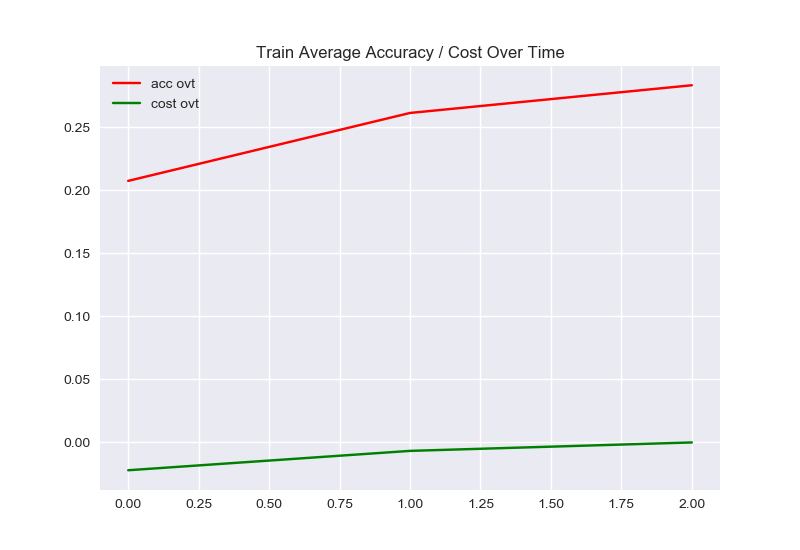
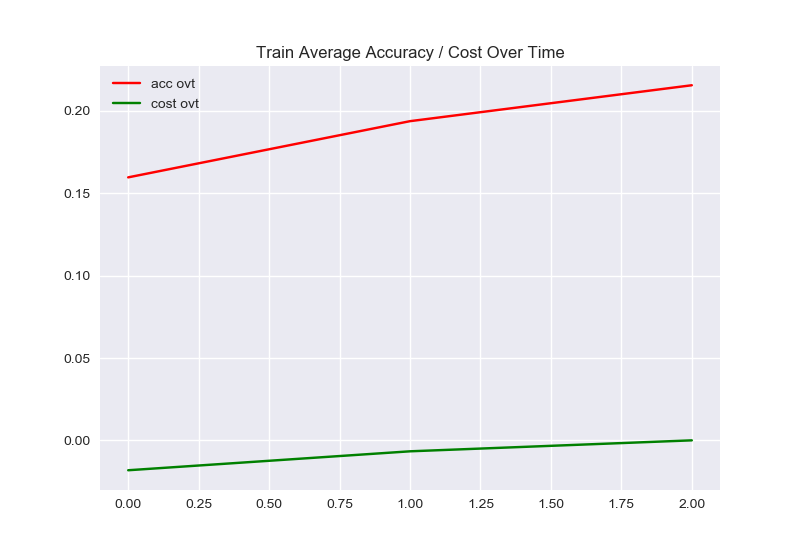
added

diff --git a/Understanding_Concepts/COUNTERFACTUALS/a.py b/Understanding_Concepts/COUNTERFACTUALS/a.py
@@ -64,13 +64,13 @@ class CNN():
 
     def getw(self): return self.w
 
-    def feedforward(self,input,stride=1,padding='SAME'):
+    def feedforward(self,input,stride=1,padding='VALID'):
         self.input  = input
         self.layer  = tf.nn.conv2d(input,self.w,strides=[1,stride,stride,1],padding=padding) 
         self.layerA = tf_elu(self.layer)
         return self.layerA 
 
-    def backprop(self,gradient,learning_rate_change,stride=1,padding='SAME'):
+    def backprop(self,gradient,learning_rate_change,stride=1,padding='VALID'):
         grad_part_1 = gradient 
         grad_part_2 = d_tf_elu(self.layer) 
         grad_part_3 = self.input
@@ -161,6 +161,7 @@ class batch_norm():
 
         def f1(): return v_t
         def f2(): return self.v_hat_prev
+
         v_max = tf.cond(tf.greater(tf.reduce_sum(v_t), tf.reduce_sum(self.v_hat_prev) ) , true_fn=f1, false_fn=f2)
         adam_middel = tf.multiply(learning_rate_change/(tf.sqrt(v_max) + adam_e),self.m)
         update_w.append(tf.assign(self.gamma,tf.subtract(self.gamma,adam_middel  )  ))
@@ -169,35 +170,30 @@ class batch_norm():
 
         return grad_pass,update_w   
 
-# data
-PathDicom = "../../Dataset/cifar-10-batches-py/"
-lstFilesDCM = []  # create an empty list
-for dirName, subdirList, fileList in os.walk(PathDicom):
-    for filename in fileList:
-        if not ".html" in filename.lower() and not  ".meta" in filename.lower():  # check whether the file's DICOM
-            lstFilesDCM.append(os.path.join(dirName,filename))
+# stl 10 data
+PathDicom = "../../Dataset/STL10/stl10_binary/"
 
-# Read the data traind and Test
-batch0 = unpickle(lstFilesDCM[0])
-batch1 = unpickle(lstFilesDCM[1])
-batch2 = unpickle(lstFilesDCM[2])
-batch3 = unpickle(lstFilesDCM[3])
-batch4 = unpickle(lstFilesDCM[4])
+train_file   = open(PathDicom+"train_X.bin",'rb')
+train_label_f  = open(PathDicom+"train_y.bin",'rb')
 
-# One hot encode and unpickle data
+test_file   = open(PathDicom+"test_X.bin",'rb')
+test_label_f  = open(PathDicom+"test_y.bin",'rb')
+
+# Train set have 500 images per class 5000
+# Test set have 800 images per class 8000
+# So I am going to switch 
 onehot_encoder = OneHotEncoder(sparse=True)
-train_batch = np.vstack((batch0[b'data'],batch1[b'data'],batch2[b'data'],batch3[b'data'],batch4[b'data']))
-train_label = np.expand_dims(np.hstack((batch0[b'labels'],batch1[b'labels'],batch2[b'labels'],batch3[b'labels'],batch4[b'labels'])).T,axis=1).astype(np.float32)
+train_batch = np.fromfile(test_file, dtype=np.uint8)
+train_batch = np.reshape(train_batch, (-1, 3, 96, 96))
+train_batch = np.transpose(train_batch, (0, 3, 2, 1))
+train_label = np.expand_dims(np.fromfile(test_label_f, dtype=np.uint8).astype(np.float64),axis=1)
 train_label = onehot_encoder.fit_transform(train_label).toarray().astype(np.float32)
-test_batch = unpickle(lstFilesDCM[5])[b'data']
-test_label = np.expand_dims(np.array(unpickle(lstFilesDCM[5])[b'labels']),axis=0).T.astype(np.float32)
+
+test_batch = np.fromfile(train_file, dtype=np.uint8)
+test_batch = np.reshape(test_batch, (-1, 3, 96, 96))
+test_batch = np.transpose(test_batch, (0, 3, 2, 1))
+test_label = np.expand_dims(np.fromfile(train_label_f, dtype=np.uint8).astype(np.float64),axis=1)
 test_label = onehot_encoder.fit_transform(test_label).toarray().astype(np.float32)
-# reshape data
-train_batch = np.reshape(train_batch,(len(train_batch),3,32,32))
-test_batch = np.reshape(test_batch,(len(test_batch),3,32,32))
-# rotate data
-train_batch = np.rot90(np.rot90(train_batch,1,axes=(1,3)),3,axes=(1,2))
-test_batch = np.rot90(np.rot90(test_batch,1,axes=(1,3)),3,axes=(1,2))
 
 # print out the data shape
 print(train_batch.shape)
@@ -205,35 +201,35 @@ print(train_label.shape)
 print(test_batch.shape)
 print(test_label.shape)
 
+# simple normalize
 train_batch = train_batch/255.0
 test_batch = test_batch/255.0
 
-
 # hyper parameter
-num_epoch = 3
-batch_size = 50
+num_epoch = 21
+batch_size = 8
 print_size = 1
 
 # learning_rate = 0.0004
-learning_rate = 0.00002
-learnind_rate_decay = 0.001
+learning_rate = 0.00003
+learnind_rate_decay = 0.0
 beta1,beta2,adam_e = 0.9,0.9,1e-8
 
 # define class
-l1 = CNN(3,3,96)
-l2 = CNN(3,96,96)
-l3 = CNN(3,96,192)
+l1 = CNN(3,3,196)
+l2 = CNN(3,196,196)
+l3 = CNN(3,196,196)
 
-l4 = CNN(3,192,192)
-l5 = CNN(3,192,192)
-l6 = CNN(3,192,192)
+l4 = CNN(3,196,196)
+l5 = CNN(3,196,196)
+l6 = CNN(2,196,196)
 
-l7 = CNN(3,192,192)
-l8 = CNN(1,192,192)
-l9 = CNN(1,192,10)
+l7 = CNN(3,196,196)
+l8 = CNN(1,196,196)
+l9 = CNN(1,196,10)
 
 # graph
-x = tf.placeholder(shape=[batch_size,32,32,3],dtype=tf.float32)
+x = tf.placeholder(shape=[batch_size,96,96,3],dtype=tf.float32)
 y = tf.placeholder(shape=[batch_size,10],dtype=tf.float32)
 
 iter_variable = tf.placeholder(tf.float32, shape=())
@@ -241,19 +237,19 @@ learning_rate_dynamic  = tf.placeholder(tf.float32, shape=())
 learning_rate_change = learning_rate_dynamic * (1.0/(1.0+learnind_rate_decay*iter_variable))
 phase = tf.placeholder(tf.bool)
 
-layer1 = l1.feedforward(x)
-layer2 = l2.feedforward(layer1)
-layer3 = l3.feedforward(layer2)
+layer1 = l1.feedforward(x,padding='VALID')
+layer2 = l2.feedforward(layer1,padding='VALID')
+layer3 = l3.feedforward(layer2,padding='VALID')
 
 # layer4_BN,layer4_BN_UP = b1.feedforward(layer3,is_training=phase)
 layer4_Input = tf.nn.avg_pool(layer3,ksize=[1,2,2,1],strides=[1,2,2,1],padding='VALID')
-layer4 = l4.feedforward(layer4_Input)
-layer5 = l5.feedforward(layer4)
-layer6 = l6.feedforward(layer5)
+layer4 = l4.feedforward(layer4_Input,padding='VALID')
+layer5 = l5.feedforward(layer4,padding='VALID')
+layer6 = l6.feedforward(layer5,padding='VALID')
 
-# layer7_BN,layer7_BN_U = b2.feedforward(layer6,is_training=phase)
+# layer7_BN,layer7_BN_UP = b2.feedforward(layer6,is_training=phase)
 layer7_Input = tf.nn.avg_pool(layer6,ksize=[1,2,2,1],strides=[1,2,2,1],padding='VALID')
-layer7 = l7.feedforward(layer7_Input)
+layer7 = l7.feedforward(layer7_Input,padding='VALID')
 layer8 = l8.feedforward(layer7,padding='VALID')
 layer9 = l9.feedforward(layer8,padding='VALID')
 
@@ -264,7 +260,7 @@ cost = tf.reduce_mean(tf.nn.softmax_cross_entropy_with_logits_v2(logits=final_gl
 correct_prediction = tf.equal(tf.argmax(final_soft, 1), tf.argmax(y, 1))
 accuracy = tf.reduce_mean(tf.cast(correct_prediction, tf.float32))
 
-grad_prepare = tf_repeat(tf.reshape(final_soft-y,[batch_size,1,1,10]),[1,8,8,1])
+grad_prepare = tf_repeat(tf.reshape(final_soft-y,[batch_size,1,1,10]),[1,18,18,1])
 grad9,grad9_up = l9.backprop(grad_prepare,learning_rate_change=learning_rate_change,padding='VALID')
 grad8,grad8_up = l8.backprop(grad9,learning_rate_change=learning_rate_change,padding='VALID')
 grad7,grad7_up = l7.backprop(grad8,learning_rate_change=learning_rate_change)
@@ -281,7 +277,7 @@ grad3,grad3_up = l3.backprop(grad3_Input,learning_rate_change=learning_rate_chan
 grad2,grad2_up = l2.backprop(grad3,learning_rate_change=learning_rate_change)
 grad1,grad1_up = l1.backprop(grad2,learning_rate_change=learning_rate_change)
 
-grad_update =  grad9_up + grad8_up+ grad7_up + \
+grad_update =  grad9_up + grad8_up + grad7_up + \
                grad6_up + grad5_up + grad4_up + \
                grad3_up + grad2_up + grad1_up 
 
@@ -379,7 +375,6 @@ with tf.Session() as sess:
             # test_batch_a[:,:,:,1]  = (test_batch_a[:,:,:,1] - test_batch_a[:,:,:,1].mean(axis=0)) / ( test_batch_a[:,:,:,1].std(axis=0)+1e-10)
             # test_batch_a[:,:,:,2]  = (test_batch_a[:,:,:,2] - test_batch_a[:,:,:,2].mean(axis=0)) / ( test_batch_a[:,:,:,2].std(axis=0)+1e-10)
             sess_result = sess.run([cost,accuracy,correct_prediction,final_soft,grad1],feed_dict={x:test_batch_a,y:test_label,iter_variable:1.0,phase:False})
-        
             
             grad_important = sess_result[4][test_images,:,:,:]
             grad_important = np.sum(grad_important,axis=2)  
@@ -389,12 +384,12 @@ with tf.Session() as sess:
             test_image_view = (test_image_view-test_image_view.min())/(test_image_view.max()-test_image_view.min())
 
             plt.close('all')
-            plt.imshow(imresize(grad_important, (500, 500)))
+            plt.imshow(grad_important)
             plt.axis('off')
             plt.show()
 
             grad_important_3d = np.repeat(np.expand_dims(grad_important,2),3,axis=2) * test_image_view
-            plt.imshow(imresize(grad_important_3d, (500, 500,3)))
+            plt.imshow(grad_important_3d)
             plt.axis('off')
             plt.show()
             plt.close('all')

diff --git a/Understanding_Concepts/COUNTERFACTUALS/temp.py b/Understanding_Concepts/COUNTERFACTUALS/temp.py
@@ -1,0 +1,163 @@
+from __future__ import print_function
+
+import sys
+import os, sys, tarfile, errno
+import numpy as np
+import matplotlib.pyplot as plt
+    
+if sys.version_info >= (3, 0, 0):
+    import urllib.request as urllib # ugly but works
+else:
+    import urllib
+
+print(sys.version_info) 
+
+# image shape
+HEIGHT = 96
+WIDTH = 96
+DEPTH = 3
+
+# size of a single image in bytes
+SIZE = HEIGHT * WIDTH * DEPTH
+
+# path to the directory with the data
+DATA_DIR = './data'
+
+# url of the binary data
+DATA_URL = 'http://ai.stanford.edu/~acoates/stl10/stl10_binary.tar.gz'
+
+# path to the binary train file with image data
+DATA_PATH = './data/stl10_binary/train_X.bin'
+
+# path to the binary train file with labels
+LABEL_PATH = './data/stl10_binary/train_y.bin'
+
+def read_labels(path_to_labels):
+    """
+    :param path_to_labels: path to the binary file containing labels from the STL-10 dataset
+    :return: an array containing the labels
+    """
+    with open(path_to_labels, 'rb') as f:
+        labels = np.fromfile(f, dtype=np.uint8)
+        return labels
+
+
+def read_all_images(path_to_data):
+    """
+    :param path_to_data: the file containing the binary images from the STL-10 dataset
+    :return: an array containing all the images
+    """
+
+    with open(path_to_data, 'rb') as f:
+        # read whole file in uint8 chunks
+        everything = np.fromfile(f, dtype=np.uint8)
+
+        # We force the data into 3x96x96 chunks, since the
+        # images are stored in "column-major order", meaning
+        # that "the first 96*96 values are the red channel,
+        # the next 96*96 are green, and the last are blue."
+        # The -1 is since the size of the pictures depends
+        # on the input file, and this way numpy determines
+        # the size on its own.
+
+        images = np.reshape(everything, (-1, 3, 96, 96))
+
+        # Now transpose the images into a standard image format
+        # readable by, for example, matplotlib.imshow
+        # You might want to comment this line or reverse the shuffle
+        # if you will use a learning algorithm like CNN, since they like
+        # their channels separated.
+        images = np.transpose(images, (0, 3, 2, 1))
+        return images
+
+
+def read_single_image(image_file):
+    """
+    CAREFUL! - this method uses a file as input instead of the path - so the
+    position of the reader will be remembered outside of context of this method.
+    :param image_file: the open file containing the images
+    :return: a single image
+    """
+    # read a single image, count determines the number of uint8's to read
+    image = np.fromfile(image_file, dtype=np.uint8, count=SIZE)
+    # force into image matrix
+    image = np.reshape(image, (3, 96, 96))
+    # transpose to standard format
+    # You might want to comment this line or reverse the shuffle
+    # if you will use a learning algorithm like CNN, since they like
+    # their channels separated.
+    image = np.transpose(image, (2, 1, 0))
+    return image
+
+
+def plot_image(image):
+    """
+    :param image: the image to be plotted in a 3-D matrix format
+    :return: None
+    """
+    plt.imshow(image)
+    plt.show()
+
+def save_image(image, name):
+    for spine in plt.gca().spines.values():
+        spine.set_visible(False)
+
+    plt.tick_params(top=False, bottom=False, left=False, right=False, labelleft=False, labelbottom=True)
+    plt.axis('off')
+    
+    plt.imshow(image)
+    plt.savefig(name, bbox_inches='tight', dpi=96)
+
+def download_and_extract():
+    """
+    Download and extract the STL-10 dataset
+    :return: None
+    """
+    dest_directory = DATA_DIR
+    if not os.path.exists(dest_directory):
+        os.makedirs(dest_directory)
+    filename = DATA_URL.split('/')[-1]
+    filepath = os.path.join(dest_directory, filename)
+    if not os.path.exists(filepath):
+        def _progress(count, block_size, total_size):
+            sys.stdout.write('\rDownloading %s %.2f%%' % (filename,
+                float(count * block_size) / float(total_size) * 100.0))
+            sys.stdout.flush()
+        filepath, _ = urllib.urlretrieve(DATA_URL, filepath, reporthook=_progress)
+        print('Downloaded', filename)
+        tarfile.open(filepath, 'r:gz').extractall(dest_directory)
+
+def save_images(images, labels):
+    print("Saving images to disk")
+    i = 0
+    for image in images:
+        label = labels[i]
+        directory = './img/' + str(label) + '/'
+        try:
+            os.mkdir(directory)
+        except OSError as exc:
+            if exc.errno == errno.EEXIST:
+                pass
+        filename = directory + str(i)
+        print(filename)
+        save_image(image, filename)
+        i = i+1
+    
+if __name__ == "__main__":
+    # download data if needed
+    download_and_extract()
+
+    # test to check if the image is read correctly
+    with open(DATA_PATH) as f:
+        image = read_single_image(f)
+        plot_image(image)
+
+    # test to check if the whole dataset is read correctly
+    images = read_all_images(DATA_PATH)
+    print(images.shape)
+
+    labels = read_labels(LABEL_PATH)
+    print(labels.shape)
+
+    # save images to disk
+    save_images(images, labels)
